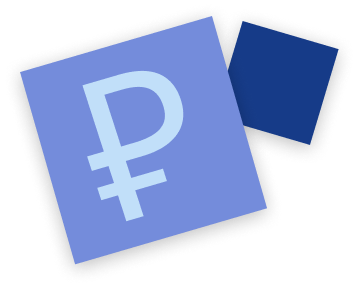
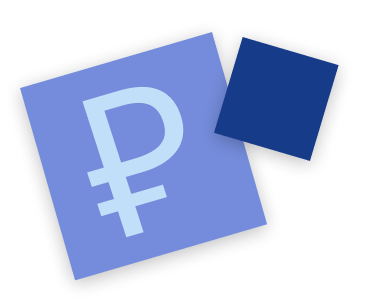
feat: added adaptive screens for Donation

diff --git a/src/components/Donation/Donation.css b/src/components/Donation/Donation.css
@@ -2,13 +2,14 @@
   gap: 60px;
   background-image: url(../../images/donationLeft.png), url(../../images/donationRight.png);
   background-repeat: no-repeat;
-  background-position: 6% 1%, 94% 3%;
-  background-size: 320px, 230px;
+  background-position: 3% 1%, 97% 1%;
+  background-size: 390px, 285px;
 }
 
 .donation__title {
+  padding-top: 15;
   font-size: 100px;
-  line-height: 100%;
+  line-height: 100px;
 }
 
 .donation__text {
@@ -64,6 +65,7 @@
   width: 708px;
   height: 142px;
   font-size: 60px;
+  box-shadow: 0 4px 4px rgba(0, 0, 0, 0.25);
 }
 
 .donation__span {
@@ -72,4 +74,130 @@
 
 .donation__link {
   margin-bottom: 30px;
+}
+
+@media screen and (max-width: 1919px) {
+  .donation {
+    background-size: 280px, 225px;
+  }
+  
+  .donation__title {
+    padding-top: 0;
+    font-size: 88px;
+    line-height: 100%;
+  }
+  
+  .donation__text {
+    font-size: 36px;
+    line-height: 40px;
+    max-width: 1080px;
+  }
+  
+  .donation__form {
+    max-width: 1080px;
+  }
+  
+  .donation__form-title {
+    font-size: 36px;
+  }
+  
+  .donation__form-label {
+    font-size: 32px;
+    width: 344px;
+  }
+  
+  .donation__button {
+    margin-bottom: 10px;
+    width: 528px;
+    height: 112px;
+    font-size: 48px;
+  }
+}
+
+@media screen and (max-width: 1365px) {
+  .donation {
+    gap: 40px;
+    background-size: 185px, 140px;
+  }
+  
+  .donation__title {
+    font-size: 60px;
+    line-height: 100%;
+  }
+  
+  .donation__text {
+    font-size: 32px;
+    line-height: 36px;
+    max-width: 768px;
+  }
+  
+  .donation__form {
+    max-width: 768px;
+  }
+  
+  .donation__form-title {
+    font-size: 32px;
+  }
+  
+  .donation__form-label {
+    font-size: 32px;
+    width: 240px;
+    height: 56px;
+  }
+  
+  .donation__button {
+    margin-bottom: 0;
+    width: 372px;
+    height: 80px;
+    font-size: 32px;
+  }
+}
+
+@media screen and (max-width: 1023px) {
+  .donation {
+    gap: 20px;
+    background-image: none;
+    padding-left: 25px;
+    padding-right: 25px;
+    max-width: 550px;
+  }
+  
+  .donation__title {
+    font-size: 32px;
+  }
+  
+  .donation__text {
+    font-size: 20px;
+    line-height: 24px;
+    max-width: 100%;
+  }
+  
+  .donation__form {
+    max-width: 100%;
+    flex-direction: column;
+    gap: 20px;
+  }
+
+  .donation__form-labels {
+    flex-direction: column;
+    gap: 20px;
+  }
+  
+  .donation__form-title {
+    font-size: 20px;
+  }
+  
+  .donation__form-label {
+    font-size: 24px;
+    width: 100%;
+    height: 48px;
+  }
+  
+  .donation__button {
+    margin-bottom: 0;
+    margin-top: 0;
+    width: 100%;
+    height: 68px;
+    font-size: 28px;
+  }
 }

diff --git a/src/components/Label/Label.css b/src/components/Label/Label.css
@@ -14,11 +14,24 @@
   transform: translateX(18px);
 }
 
+@media screen and (max-width: 1919px) {
+  .form__label_position_donation {
+    width: 376px;
+  }
+}
+
 @media screen and (max-width: 1599px) {
   .form__label {
     width: 410px;
   }
 }
+
+@media screen and (max-width: 1365px) {
+  .form__label_position_donation {
+    width: 272px;
+  }
+}
+
 
 @media screen and (max-width: 1151px) {
   .form__label {
@@ -26,10 +39,28 @@
     font-size: 16px;
     line-height: 100%;
   }
+
+  .form__label_position_donation {
+    width: 272px;
+    transform: translateX(18px);
+    height: 56px;
+  }
+}
+
+@media screen and (max-width: 1023px) {
+  .form__label_position_donation {
+    width: 100%;
+    transform: translateX(0);
+    height: 48px;
+  }
 }
 
 @media screen and (max-width: 900px) {
   .form__label {
     width: 284px;
+  }
+  
+  .form__label_position_donation {
+    width: 100%;
   }
 }

diff --git a/src/components/Input/Input.css b/src/components/Input/Input.css
@@ -37,6 +37,27 @@
   text-align: left;
 }
 
+@media screen and (max-width: 1919px) {
+  .input_type_donation {
+    font-size: 32px;
+  }
+}
+
+@media screen and (max-width: 1365px) {
+  .input_type_donation {
+    font-size: 20px;
+    max-height: 56px;
+    margin: 0;
+  }
+}
+
+@media screen and (max-width: 1023px) {
+  .input_type_donation {
+    font-size: 16px;
+    max-height: 48px;
+  }
+}
+
 @media screen and (max-width: 599px) {
   .input {
     font-size: 16px;
